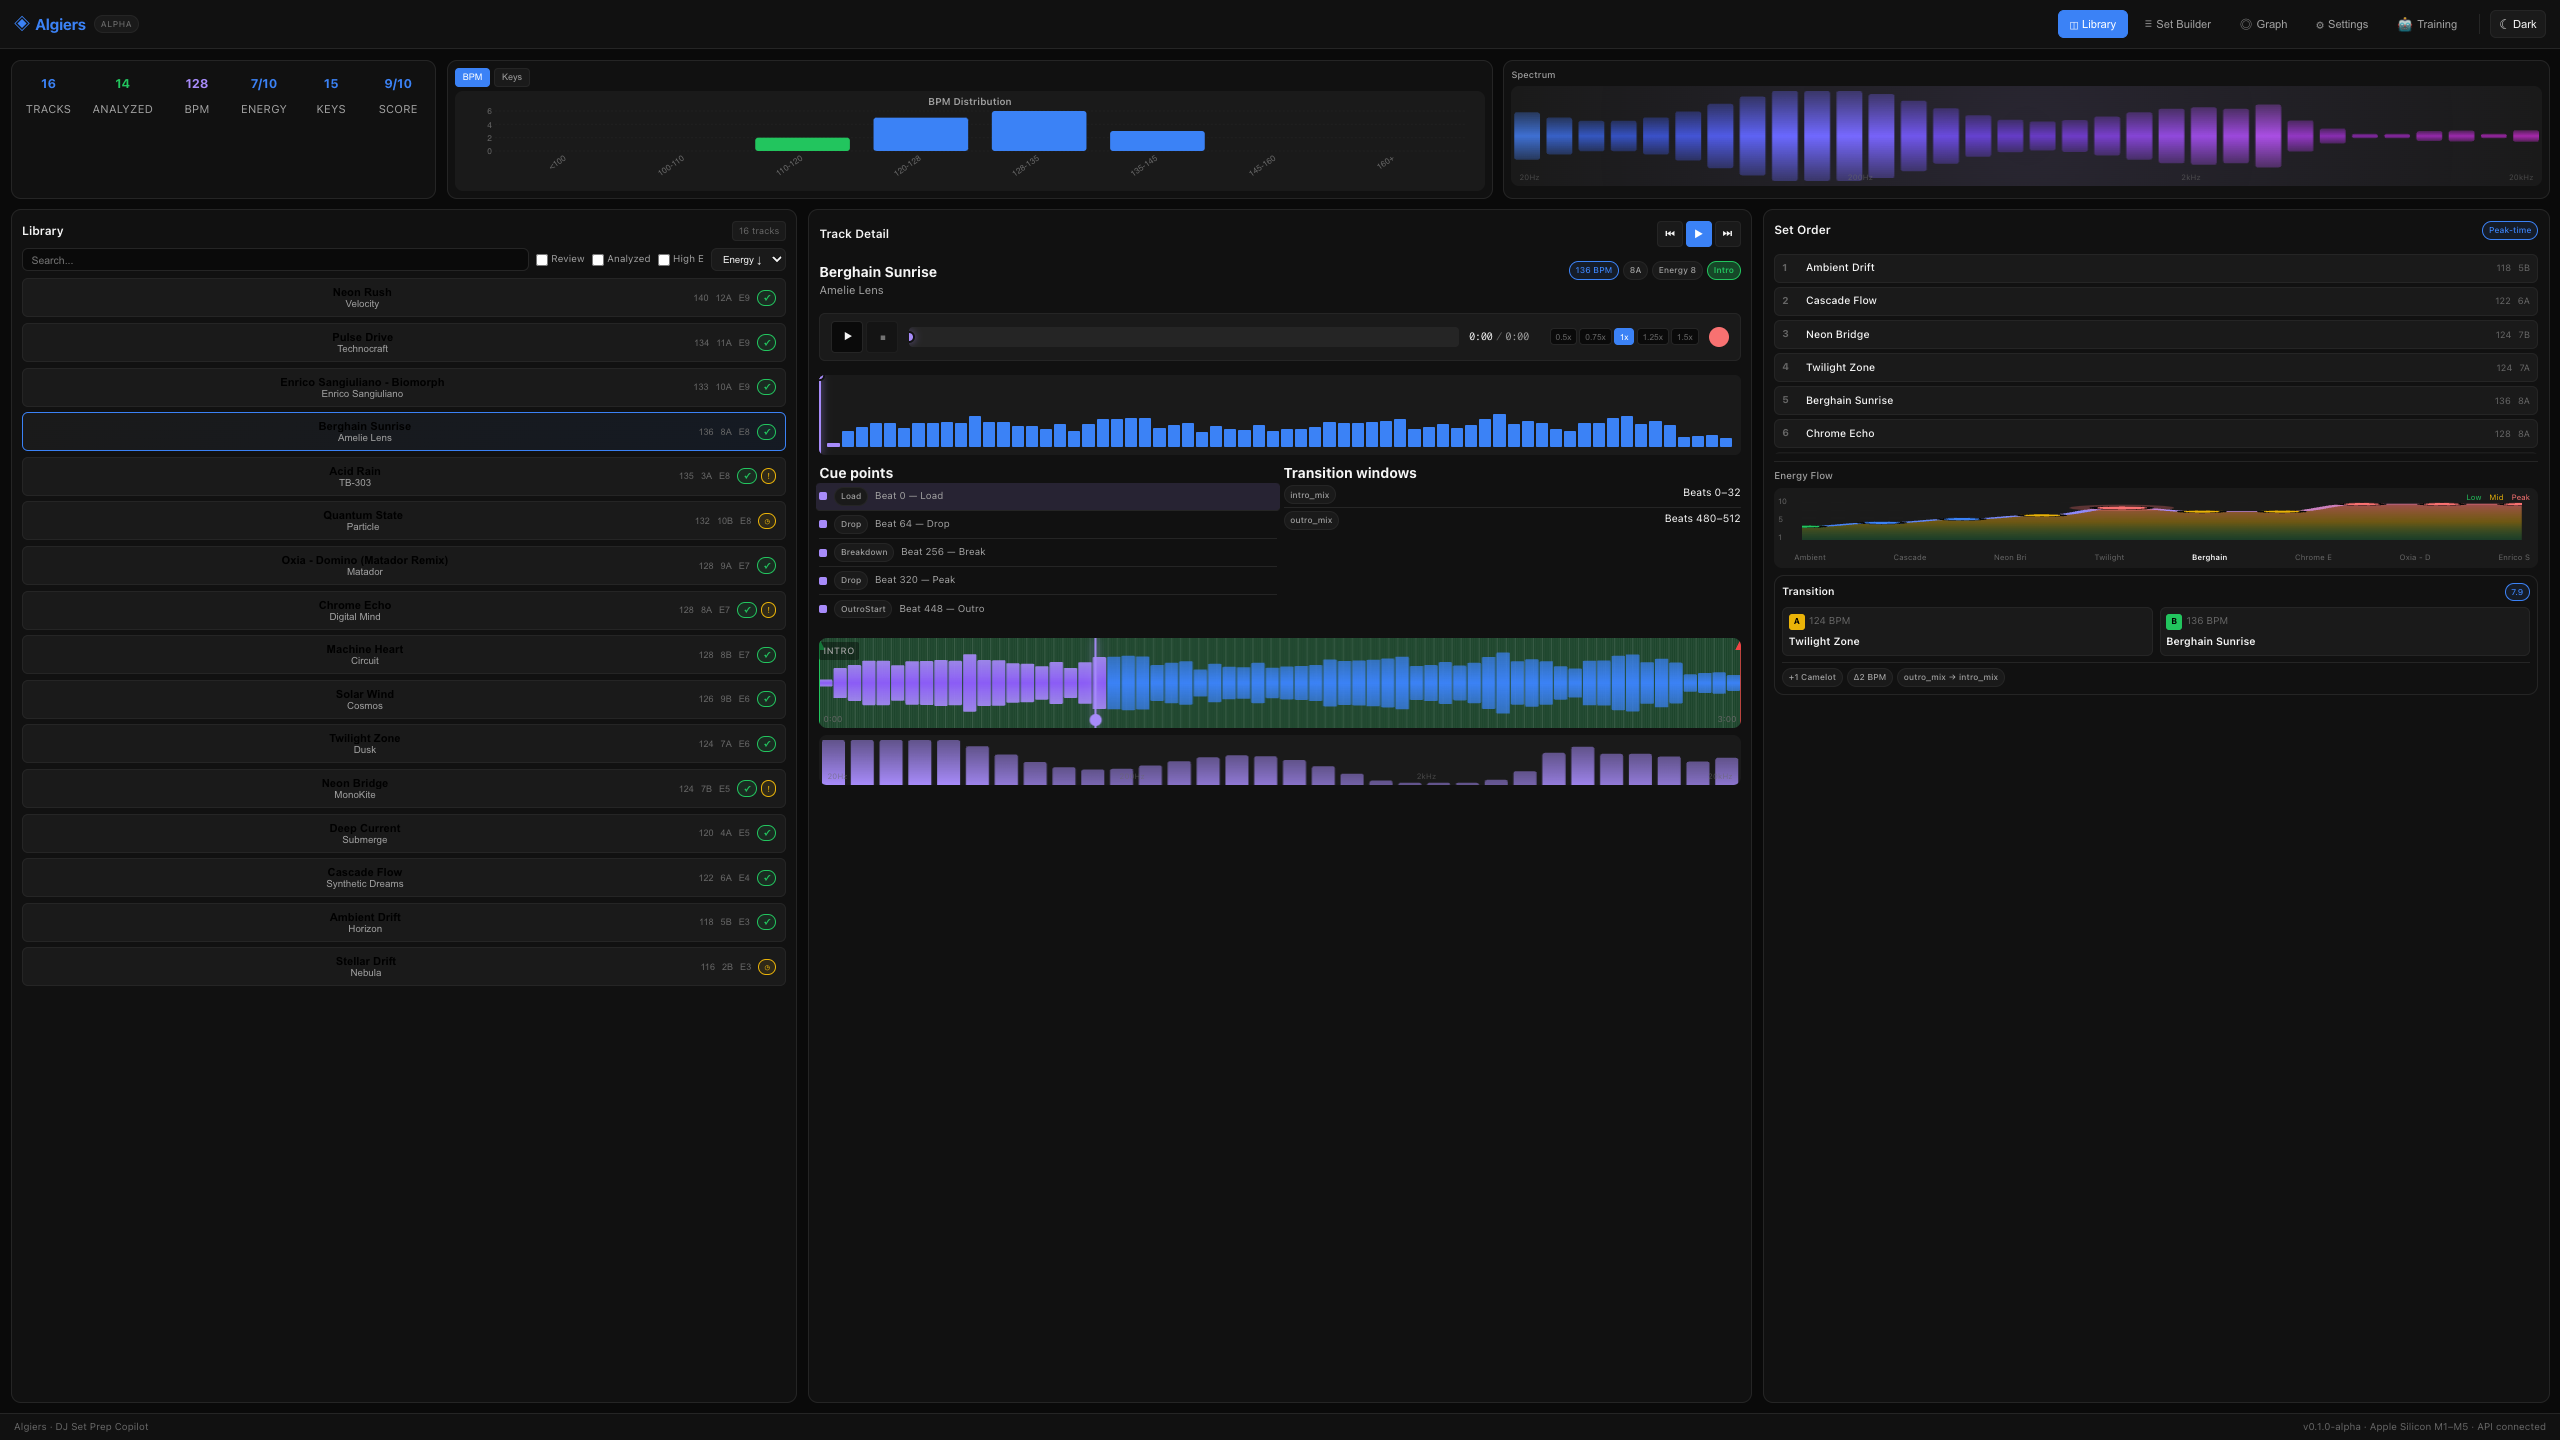
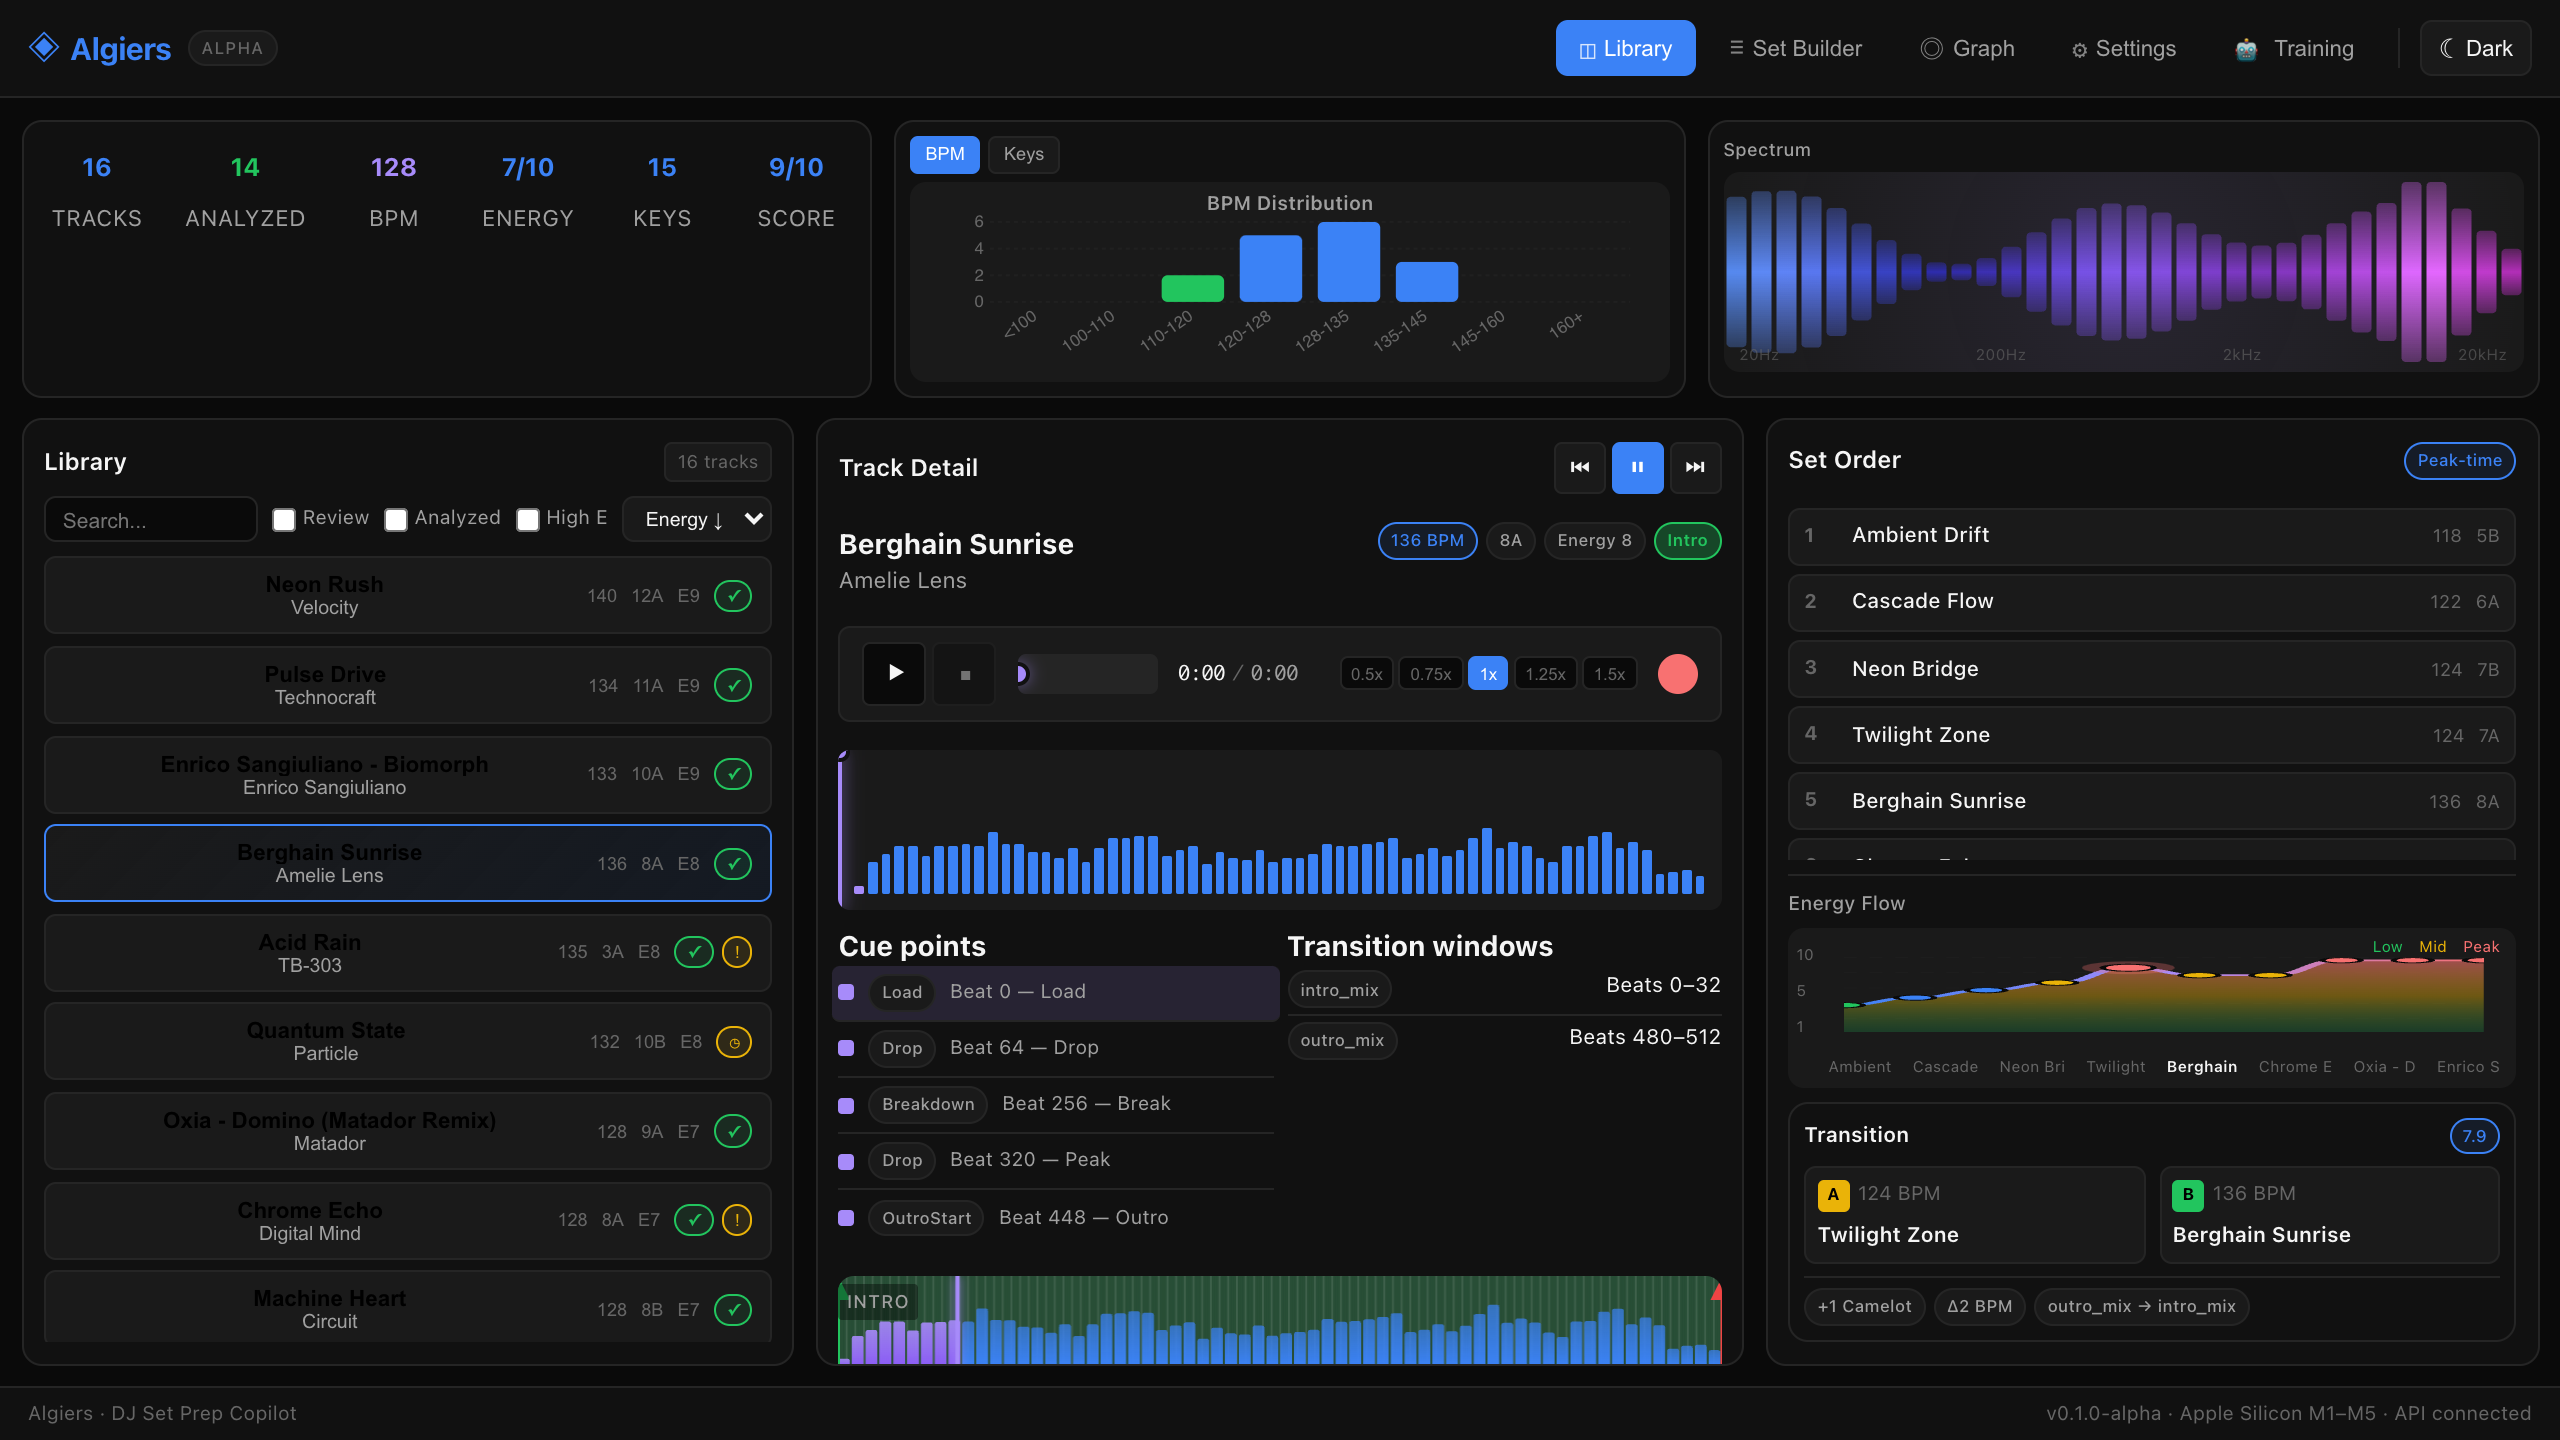
docs: update README and refresh screenshots
- Remove archived prototype notice
- Add macOS standalone app quick start section
- Refresh all screenshots with playwright-go
- Update demo WebP animation

diff --git a/README.md b/README.md
@@ -1,13 +1,8 @@
 <div align="center">
 
-> **⚠ ARCHIVED PROTOTYPE**
->
-> This project is being archived as a prototype. Development has moved to:
-> **[CartoMix - DJ Set Prep Copilot](https://github.com/ParkWardRR/CartoMix---DJ-Set-Prep-Copilot)**
-
 <img src="docs/assets/logo.svg" alt="Algiers - DJ Set Prep Copilot" width="100" />
 
-# Algiers — DJ Set Prep Copilot (Prototype)
+# Algiers — DJ Set Prep Copilot
 
 **Apple Silicon–native DJ prep tool: analyze, cue, transition, export — all local.**
 
@@ -788,20 +783,26 @@ The HTTP REST API remains available for backward compatibility but is **deprecat
 
 ## Quick Start
 
-### One-Command Install (Recommended)
+### macOS Standalone App (Recommended)
+
+Download the latest release or build from source:
 
 ```bash
-git clone https://github.com/cartomix/algiers.git
-cd algiers
-make install
+git clone https://github.com/ParkWardRR/cartomix-Web-Based-DJ-Copilot.git
+cd cartomix-Web-Based-DJ-Copilot
+make build-macos
+open build/Algiers.app
 ```
 
-That's it! The installer handles all dependencies automatically.
+The standalone app bundles everything — just double-click to run. No terminal needed.
 
-### Run
+### Development Mode
 
 ```bash
-# Start all services
+# Install dependencies
+make install
+
+# Start all services (3 terminals)
 make run-stack
 
 # Open in browser
